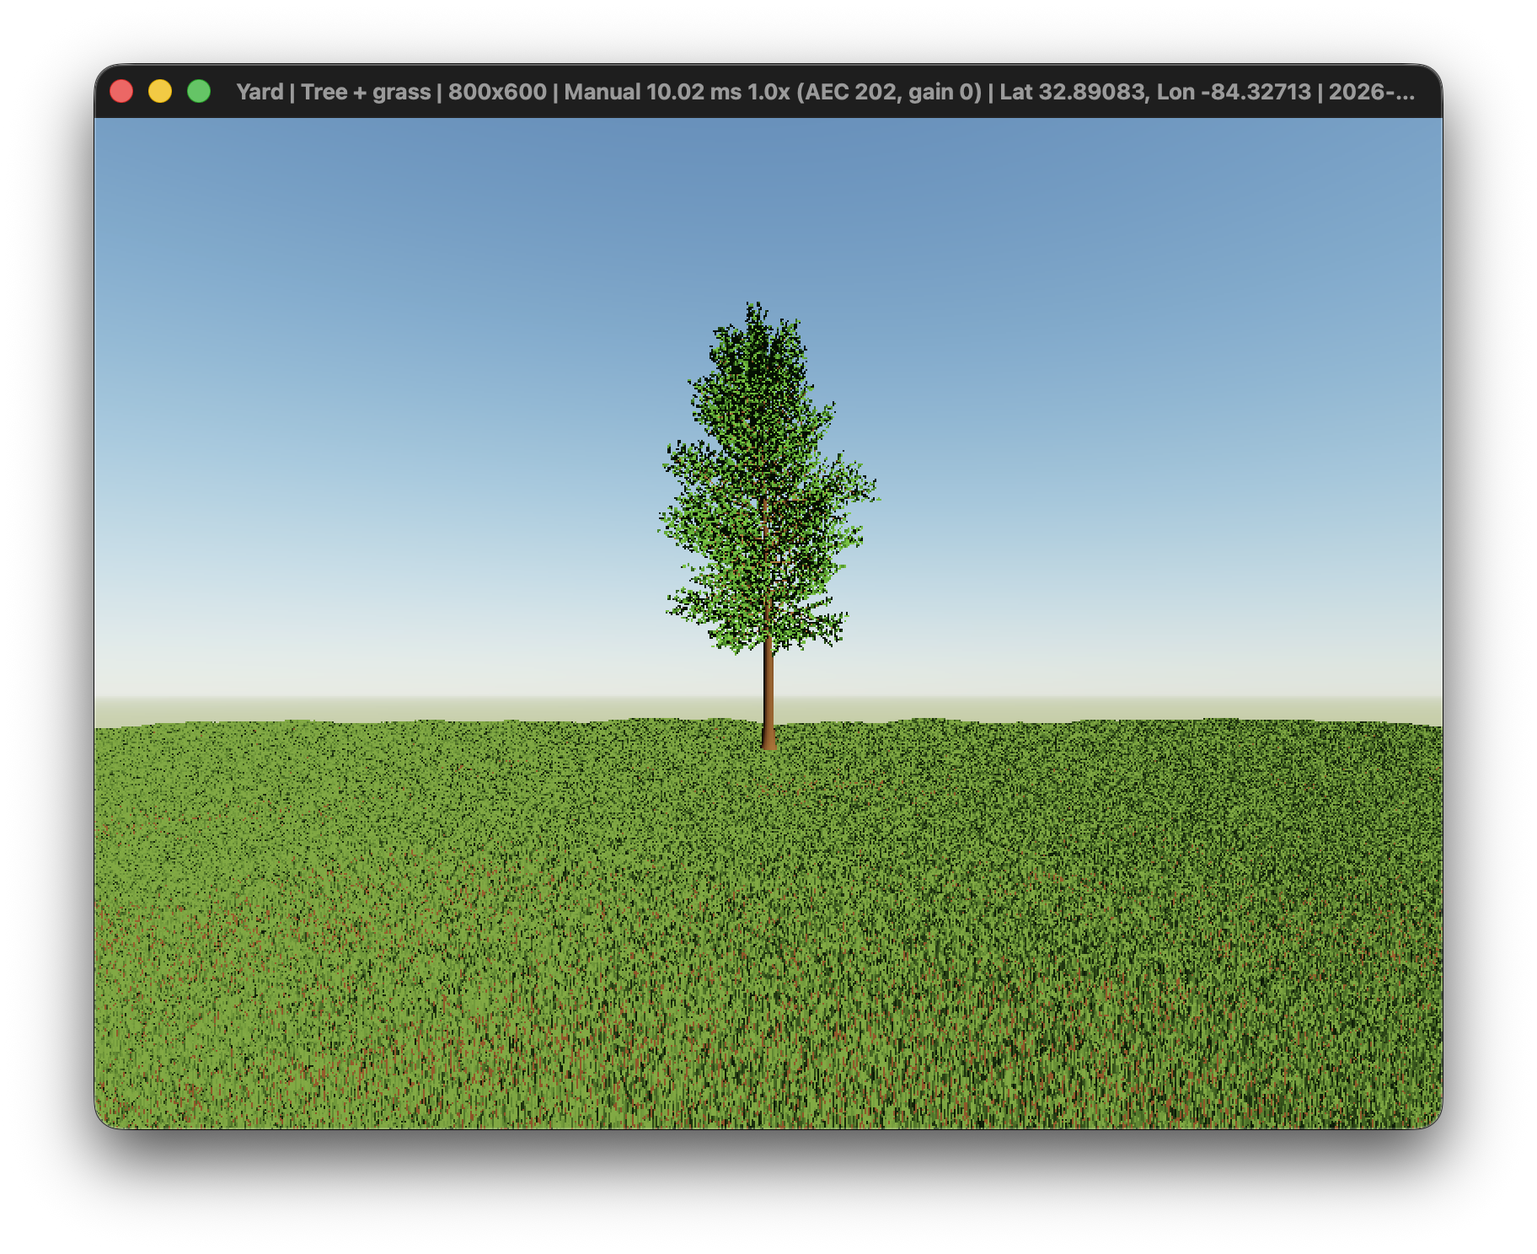
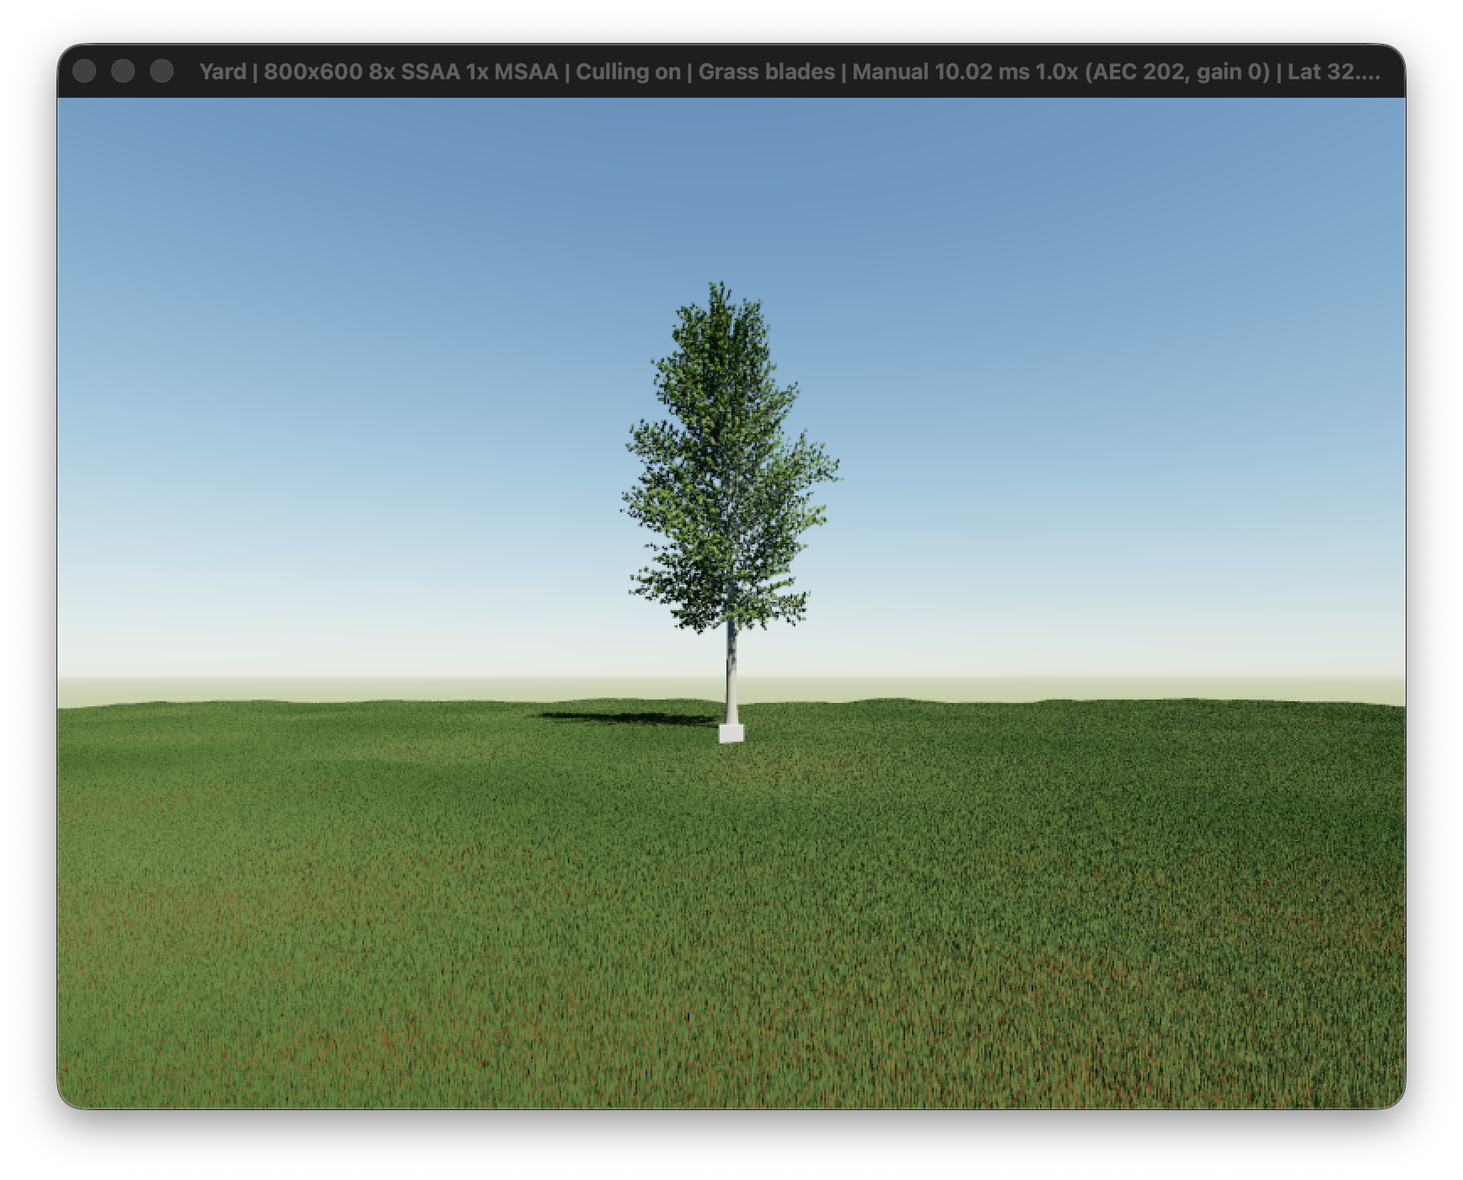
Refine yard materials and add foliage transmission and sun shadows

diff --git a/src/main.cpp b/src/main.cpp
@@ -47,6 +47,11 @@ static struct {
     bool geometry_demo, yard_demo;
     int object_index_count;
     sg_pipeline object_pipeline;
+    sg_pipeline shadow_pipeline;
+    sg_attachments shadow_attachments;
+    sg_bindings shadow_bindings;
+    float shadow_extent;
+    bool no_shadows;
     sg_bindings object_bindings;
     sg_pipeline grass_pipeline;
     sg_bindings grass_bindings;
@@ -95,15 +100,17 @@ static void sunlight(const double direction[3], float color[4], double intensity
 
 static void make_objects() {
     using namespace yard::geometry;
-    struct RenderVertex { Vertex geometry; Vec3 color; };
+    struct RenderVertex { Vertex geometry; std::array<float,4> color; };
     std::vector<RenderVertex> vertices;
     std::vector<uint32_t> indices;
-    auto append = [&](Mesh mesh, Vec3 color, Vec3 offset, bool checker=false) {
+    auto append = [&](Mesh mesh, Vec3 color, Vec3 offset, bool checker=false, bool foliage=false) {
         auto base = static_cast<uint32_t>(vertices.size());
         for (auto vertex : mesh.vertices) {
             vertex.position.x += offset.x; vertex.position.y += offset.y; vertex.position.z += offset.z;
             if (!checker) vertex.uv = {0,0};
-            vertices.push_back({vertex,color});
+            vertices.push_back({vertex,{color.x,color.y,color.z,foliage ? 1.0f : 0.0f}});
+            const auto& p=vertex.position;
+            state.shadow_extent=fmaxf(state.shadow_extent,sqrtf(p.x*p.x+(p.y-10)*(p.y-10)+(p.z+6)*(p.z+6))+2);
         }
         for (auto i : mesh.indices) indices.push_back(base+i);
     };
@@ -126,9 +133,10 @@ static void make_objects() {
         auto skeleton=yard::tree::generate(yard::tree::preset(state.tree_species ? state.tree_species : "fan_palm"),123);
         auto tree=yard::tree::mesh(skeleton);
         Vec3 root{0,yard_terrain_height(&state.terrain,0,-6)-.02f,-6};
-        append(std::move(tree.wood),{.40f,.27f,.16f},root);
-        append(std::move(tree.leaves),{.23f,.46f,.13f},root);
-        append(std::move(tree.blossoms),{.95f,.65f,.75f},root);
+        const bool aspen=state.tree_species && strcmp(state.tree_species,"quaking_aspen")==0;
+        append(std::move(tree.wood),aspen ? Vec3{.62f,.63f,.57f} : Vec3{.36f,.30f,.23f},root);
+        append(std::move(tree.leaves),{.30f,.40f,.20f},root,false,true);
+        append(std::move(tree.blossoms),{.85f,.62f,.68f},root,false,true);
     }
     state.object_index_count=static_cast<int>(indices.size());
     sg_buffer_desc buffer{};
@@ -144,7 +152,7 @@ static void make_objects() {
     pipeline.layout.attrs[ATTR_object_position].offset=offsetof(RenderVertex,geometry)+offsetof(Vertex,position);
     pipeline.layout.attrs[ATTR_object_normal].format=SG_VERTEXFORMAT_FLOAT3;
     pipeline.layout.attrs[ATTR_object_normal].offset=offsetof(RenderVertex,geometry)+offsetof(Vertex,normal);
-    pipeline.layout.attrs[ATTR_object_color].format=SG_VERTEXFORMAT_FLOAT3;
+    pipeline.layout.attrs[ATTR_object_color].format=SG_VERTEXFORMAT_FLOAT4;
     pipeline.layout.attrs[ATTR_object_color].offset=offsetof(RenderVertex,color);
     pipeline.layout.attrs[ATTR_object_uv].format=SG_VERTEXFORMAT_FLOAT2;
     pipeline.layout.attrs[ATTR_object_uv].offset=offsetof(RenderVertex,geometry)+offsetof(Vertex,uv);
@@ -155,10 +163,70 @@ static void make_objects() {
     pipeline.colors[0].pixel_format=SG_PIXELFORMAT_RGBA16F;pipeline.sample_count=state.msaa;
     pipeline.label="opaque scene objects";
     state.object_pipeline=sg_make_pipeline(pipeline);
+    sg_pipeline_desc shadow{};
+    shadow.shader=sg_make_shader(shadow_shader_desc(sg_query_backend()));
+    shadow.layout.buffers[0].stride=sizeof(RenderVertex);
+    shadow.layout.attrs[ATTR_shadow_position].format=SG_VERTEXFORMAT_FLOAT3;
+    shadow.layout.attrs[ATTR_shadow_position].offset=offsetof(RenderVertex,geometry)+offsetof(Vertex,position);
+    shadow.index_type=SG_INDEXTYPE_UINT32;
+    shadow.cull_mode=SG_CULLMODE_NONE; // Leaves cast from both sides.
+    shadow.depth.pixel_format=SG_PIXELFORMAT_DEPTH;
+    shadow.depth.write_enabled=true;shadow.depth.compare=SG_COMPAREFUNC_LESS_EQUAL;
+    shadow.colors[0].pixel_format=SG_PIXELFORMAT_R32F;shadow.sample_count=1;
+    shadow.label="sun shadow casters";
+    state.shadow_pipeline=sg_make_pipeline(shadow);
+    state.shadow_bindings=state.object_bindings;
     if(sg_query_pipeline_state(state.object_pipeline)!=SG_RESOURCESTATE_VALID ||
        sg_query_buffer_state(state.object_bindings.vertex_buffers[0])!=SG_RESOURCESTATE_VALID ||
        sg_query_buffer_state(state.object_bindings.index_buffer)!=SG_RESOURCESTATE_VALID)
         throw std::runtime_error("Cannot upload scene objects");
+}
+
+static void make_shadows() {
+    constexpr int resolution=4096;
+    state.shadow_extent=fmaxf(52.0f,state.shadow_extent);
+    sg_image_desc desc{};
+    desc.width=resolution;desc.height=resolution;desc.sample_count=1;
+    desc.pixel_format=SG_PIXELFORMAT_R32F;desc.usage.color_attachment=true;
+    desc.label="sun shadow depth values";
+    sg_image color=sg_make_image(desc);
+    desc.usage={};desc.usage.depth_stencil_attachment=true;
+    desc.pixel_format=SG_PIXELFORMAT_DEPTH;desc.label="sun shadow depth test";
+    sg_image depth=sg_make_image(desc);
+    sg_view_desc view{};view.color_attachment.image=color;
+    state.shadow_attachments.colors[0]=sg_make_view(view);
+    view={};view.depth_stencil_attachment.image=depth;
+    state.shadow_attachments.depth_stencil=sg_make_view(view);
+    view={};view.texture.image=color;
+    sg_view texture=sg_make_view(view);
+    sg_sampler_desc sampler_desc{};
+    sampler_desc.wrap_u=SG_WRAP_CLAMP_TO_EDGE;sampler_desc.wrap_v=SG_WRAP_CLAMP_TO_EDGE;
+    sg_sampler sampler=sg_make_sampler(sampler_desc);
+    for(sg_bindings* bindings : {&state.bindings,&state.object_bindings,&state.grass_bindings,&state.volume_bindings}) {
+        bindings->views[VIEW_shadow_image]=texture;
+        bindings->samplers[SMP_shadow_sampler]=sampler;
+    }
+    if(sg_query_image_state(color)!=SG_RESOURCESTATE_VALID ||
+       sg_query_image_state(depth)!=SG_RESOURCESTATE_VALID ||
+       sg_query_pipeline_state(state.shadow_pipeline)!=SG_RESOURCESTATE_VALID)
+        throw std::runtime_error("Cannot create sun shadow map");
+    printf("Yard: %dx%d sun shadows, %.1f m half extent, two-sided object casters\n",resolution,resolution,state.shadow_extent);
+}
+
+static shadow_params_t shadow_projection(const float* sun) {
+    // Orthonormal light axes; fixed center/extent, independent of viewer/culling.
+    const float length=hypotf(sun[0],sun[2]);
+    shadow_params_t p{};
+    if(length>0.0001f) {p.shadow_right[0]=-sun[2]/length;p.shadow_right[2]=sun[0]/length;}
+    else p.shadow_right[0]=1;
+    for(int i=0;i<3;++i) p.shadow_forward[i]=-sun[i];
+    const float* f=p.shadow_forward; const float* r=p.shadow_right;
+    p.shadow_up[0]=f[1]*r[2]-f[2]*r[1];
+    p.shadow_up[1]=f[2]*r[0]-f[0]*r[2];
+    p.shadow_up[2]=f[0]*r[1]-f[1]*r[0];
+    p.shadow_right[3]=state.no_shadows ? 0.0f : 1.0f;
+    p.shadow_origin[1]=10;p.shadow_origin[2]=-6;p.shadow_origin[3]=1.0f/state.shadow_extent;
+    return p;
 }
 
 static void make_grass_volume(void) {
@@ -423,6 +491,7 @@ static void init(void) {
     grass_pipeline.layout.attrs[ATTR_grass_root_height].buffer_index = 1;
     grass_pipeline.layout.attrs[ATTR_grass_root_height].format = SG_VERTEXFORMAT_FLOAT;
     grass_pipeline.cull_mode = SG_CULLMODE_NONE;
+    grass_pipeline.face_winding = SG_FACEWINDING_CCW;
     grass_pipeline.depth.pixel_format = SG_PIXELFORMAT_DEPTH;
     grass_pipeline.depth.write_enabled = true;
     grass_pipeline.depth.compare = SG_COMPAREFUNC_LESS_EQUAL;
@@ -457,6 +526,8 @@ static void init(void) {
     terrain_pipeline.sample_count = state.msaa;
     terrain_pipeline.label = "voxel terrain pipeline";
     state.pipeline = sg_make_pipeline(terrain_pipeline);
+    try { make_shadows(); }
+    catch(const std::exception& e) {fprintf(stderr,"Shadow initialization failed: %s\n",e.what());exit(EXIT_FAILURE);}
 }
 
 static void frame(void) {
@@ -545,6 +616,22 @@ static void frame(void) {
             sky.moon_north[i] = (float)state.ephemeris.celestial_north[i];
         }
         sky.sky_moon[3] = (float)state.ephemeris.moon_radius;
+        const shadow_params_t shadow=shadow_projection(light.sun_direction);
+        sg_pass shadow_pass{};
+        shadow_pass.attachments=state.shadow_attachments;
+        shadow_pass.action.colors[0].load_action=SG_LOADACTION_CLEAR;
+        shadow_pass.action.colors[0].clear_value={1,1,1,1};
+        sg_begin_pass(shadow_pass);
+        if(!state.no_shadows && light.sun_direction[1]>0) {
+            sg_apply_pipeline(state.shadow_pipeline);
+            sg_apply_bindings(&state.shadow_bindings);
+            caster_params_t caster{};
+            static_assert(sizeof(caster)==sizeof(shadow));
+            memcpy(&caster,&shadow,sizeof(caster));
+            sg_apply_uniforms(UB_caster_params,SG_RANGE(caster));
+            sg_draw(0,state.object_index_count,1);
+        }
+        sg_end_pass();
         sg_pass camera_pass{};
         camera_pass.action.colors[0].load_action = SG_LOADACTION_CLEAR;
         camera_pass.action.colors[0].clear_value.r = .055f;
@@ -561,6 +648,7 @@ static void frame(void) {
         sg_apply_bindings(&state.bindings);
         sg_apply_uniforms(UB_vs_params, SG_RANGE(uniforms));
         sg_apply_uniforms(UB_light_params, SG_RANGE(light));
+        sg_apply_uniforms(UB_shadow_params,SG_RANGE(shadow));
         yard_frustum frustum;
         yard_frustum_make(&frustum,state.position,state.yaw,state.pitch,
                           uniforms.view[2],uniforms.lens[0]);
@@ -578,11 +666,13 @@ static void frame(void) {
         sg_apply_bindings(&state.object_bindings);
         sg_apply_uniforms(UB_vs_params,SG_RANGE(uniforms));
         sg_apply_uniforms(UB_light_params,SG_RANGE(light));
+        sg_apply_uniforms(UB_shadow_params,SG_RANGE(shadow));
         sg_draw(0,state.object_index_count,1);
         if (state.grass_count > 0 && !state.no_grass) {
             sg_apply_pipeline(state.grass_pipeline);
             sg_apply_uniforms(UB_vs_params, SG_RANGE(uniforms));
             sg_apply_uniforms(UB_light_params, SG_RANGE(light));
+            sg_apply_uniforms(UB_shadow_params,SG_RANGE(shadow));
             for (int i=0; i<state.layout.count; ++i) {
                 const yard_draw_region *r=&state.layout.regions[i];
                 if (!state.no_culling && !yard_frustum_visible(&frustum,&r->grass)) continue;
@@ -617,6 +707,7 @@ static void frame(void) {
             sg_apply_uniforms(UB_volume_camera_params,SG_RANGE(camera));
             sg_apply_uniforms(UB_volume_params,SG_RANGE(state.volume_params));
             sg_apply_uniforms(UB_light_params,SG_RANGE(light));
+            sg_apply_uniforms(UB_shadow_params,SG_RANGE(shadow));
             sg_draw(0,3,1);
             sg_end_pass();
             state.downsample_bindings.views[VIEW_source_image]=state.volume_texture;
@@ -695,6 +786,7 @@ static void event(const sapp_event *ev) {
         yard_camera_step_gain(&state.camera, ev->key_code == SAPP_KEYCODE_EQUAL ? 1 : -1);
         state.title_minute = INT64_MIN;
     }
+    if (ev->key_code == SAPP_KEYCODE_H) state.no_shadows=!state.no_shadows;
     if (ev->key_code == SAPP_KEYCODE_G) {
         state.no_grass=!state.no_grass;
         state.title_minute=INT64_MIN;
@@ -768,6 +860,8 @@ sapp_desc sokol_main(int argc, char *argv[]) {
     double exposure_ms = -1, gain = -1, exposure_lines = -1, gain_index = -1;
     for (int i = 1; i < argc; ++i) {
         if (strcmp(argv[i], "--smoke-test") == 0) state.smoke_test = true;
+        else if (strcmp(argv[i], "--paused") == 0) state.paused=true;
+        else if (strcmp(argv[i], "--no-shadows") == 0) state.no_shadows=true;
         else if (strcmp(argv[i], "--yard-demo") == 0) state.yard_demo=true;
         else if (strcmp(argv[i], "--yard-smoke-test") == 0) {state.yard_demo=true;state.terrain_smoke_test=true;}
         else if (strcmp(argv[i], "--terrain-smoke-test") == 0) state.terrain_smoke_test = true;
@@ -892,7 +986,7 @@ sapp_desc sokol_main(int argc, char *argv[]) {
 usage:
     fprintf(stderr, "Usage: %s [--date YYYY-MM-DD] [--time local-hour] [--moon] [--zoom] [--vfov degrees] [--eye-height metres] [--smoke-test | --terrain-smoke-test] [--site profile] [--tree species] [--geometry-demo] [--yard-demo | --yard-smoke-test]\n"
                     "Grass LOD: [--grass-volume] [--lod-start metres] [--lod-end metres] (V toggles volume, G toggles grass)\n"
-                    "Rendering: [--ssaa 1|8] [--msaa 1|4] [--no-culling] [--no-grass] [--grass-stride 1..64] (diagnostic density reduction)\n"
+                    "Rendering: [--ssaa 1|8] [--msaa 1|4] [--no-shadows] [--paused] (H toggles shadows) [--no-culling] [--no-grass] [--grass-stride 1..64] (diagnostic density reduction)\n"
                     "Camera: [--camera-profile FILE] [--exposure-ms MS | --aec-value LINES] [--gain MULTIPLIER | --agc-gain INDEX]\n"
                     "OV2640 default: manual shutter 0-33.333333 ms (AEC 0-1200, frame-capped), gain 1-31x (index 0-30).\n"
                     "Keys: comma/period = shutter -/+ 1/3 stop; minus/equal = gain -/+ one step.\n"

diff --git a/design/MATERIALS.md b/design/MATERIALS.md
@@ -1,0 +1,76 @@
+# Materials and foliage shading
+
+The preview uses a restrained material palette, a thin diffuse leaf model and
+object sun shadows. These are visual approximations, not measured reflectance or
+an OV2640 color calibration. Exposure, tone mapping, sky radiance and final camera
+resolution retain their existing behavior.
+
+## Palette
+
+Grass uses linear RGB reflectance from (0.043, 0.086, 0.026) to
+(0.069, 0.112, 0.039), blended with smooth metre-scale world-space variation.
+Blades and volume call the same function at the shading position. No per-frame
+randomness or fine procedural noise is added. Tree leaves use sRGB (0.30, 0.40,
+0.20); aspen wood uses pale gray (0.62, 0.63, 0.57), other species muted brown
+(0.36, 0.30, 0.23). Blossoms use (0.85, 0.62, 0.68). Object material inputs now
+use the piecewise sRGB decode, matching the soil's color convention. Leaf/wood
+identity is explicit vertex data, independent of palette values.
+
+## Thin foliage
+
+The visible face receives diffuse reflected light and 35% rear diffuse light,
+with a green-biased transmission tint. This allows backlit leaves to stay visible
+without lighting both sides as if directly illuminated. Leaves and blossoms use
+this model; wood, soil and the cube remain opaque diffuse materials. Grass normals
+agree with the explicit CCW triangle winding. The volume averages the same leaf
+model over 16 azimuths weighted by projected area, separating ambient and direct
+terms so only direct sunlight receives shadows at each integration sample.
+
+Transmission is a local shading term, not geometric transparency or multiple
+scattering. Leaves remain opaque in camera and shadow depth. Overlapping leaves
+can therefore make a canopy shadow too dense. There is no bark texture, waxy
+specular response, subsurface transport, ambient occlusion or indirect bounce.
+
+## Sun shadows
+
+A 4096×4096 R32F color attachment records normalized light depth, with a separate
+depth attachment for nearest-surface testing. These cost approximately 128 MiB
+combined at 32-bit depth, in addition to the supersampled scene. Shadow rendering
+and receiver filtering add GPU work; the smoke runs are functional checks, not
+isolated performance benchmarks. The existing scene object vertex/index buffers are
+reused for the caster pass. Trunks, branches, foliage, the cube and optional
+geometry examples cast and receive shadows. Terrain, blades and the grass volume
+receive shadows; terrain and grass do not cast them. No moon shadow map is added.
+
+The directional projection is centered at (0, 10, -6), with 52 m half extent or
+larger if needed to enclose the object geometry. Its basis follows the shared
+simulation sun direction, and its center/extent do not follow the camera. This
+avoids camera-driven shadow-grid movement and includes off-camera casters even
+when view-frustum culling is enabled. The shadow map is rendered once per sensor
+capture, with no caster draw when the sun is below the horizon or shadows are off.
+
+Receivers use a small normal/slope bias and a continuous 4×4 tent PCF. The finite
+resolution and bias can miss fine twigs, soften/detach contact edges, or shimmer
+as sunlight moves. This is a fixed reconstruction filter, not a physically sized
+solar penumbra. Outside the finite light volume, receivers are unshadowed. There
+is no temporal accumulation. Grass-volume integration samples the same shadow map
+and palette before exposure and supersampling resolve; volume/blade coverage and
+lighting remain approximate at their transition.
+
+## Compare
+
+```sh
+./build/yard --yard-demo --paused --date 2026-09-15 --time 12
+./build/yard --yard-demo --paused --grass-volume --date 2026-09-15 --time 12
+./build/yard --yard-demo --paused --no-shadows --date 2026-09-15 --time 12
+```
+
+H toggles sun shadows, V toggles volume LOD, G toggles grass, and Space resumes the
+clock. The normal 8× SSAA default remains enabled. Window resizing and preview
+zoom do not change sensor resolution or projection.
+
+Validation includes the warning-free macOS build, all portable shader targets,
+the CPU suite, four-phase Metal smoke check, and tree-orbit checks for blades and
+volume with 4× MSAA. Paused daytime window captures check material appearance and
+visible tree self/ground shadows. These checks do not prove temporal stability,
+physical calibration, or runtime portability to the other generated backends.

diff --git a/README.md b/README.md
@@ -158,7 +158,7 @@ full-acre moving-view check measured 17.1 captures/sec on M1 Max/32 GB, down fro
 
 A light-gray **50 cm cube** sits at the yard center, with its base embedded 8 cm
 below the center's soil height. It uses the same sunlight/exposure and opaque depth
-testing as the terrain. It is visual geometry: it has no collision or cast shadow.
+testing as the terrain. It casts a sun shadow, but has no collision.
 
 Full triangle grass remains the default. **V** toggles the experimental shallow
 volume LOD without moving the camera; the title shows `blades` or `volume LOD`.
@@ -190,7 +190,8 @@ The scene stores linear HDR RGB and forward camera depth in RGBA16F. The volume
 stops at the nearest rendered terrain, cube or blade surface, so solid objects
 block grass behind them and grass in front can partially cover their lower edges.
 Compositing precedes exposure/tone mapping. The volume has no single opaque depth
-surface and does not participate in collision, shadows, or transparent-object sorting.
+surface and does not participate in collision, shadow casting, or transparent-object sorting.
+It receives object sun shadows during integration.
 With 4× MSAA, resolved depth is averaged at mixed-coverage edges; volume occlusion
 there is approximate. Default 8× SSAA with MSAA off avoids that depth resolve.
 
@@ -204,7 +205,7 @@ variation. The height field approximates the original roots and render mesh;
 transition coverage/lighting matching is approximate. Empty-space skipping uses
 a conservative height-slope bound, followed by <=1 cm integration steps in the
 layer. Marches stop at 1,024 steps or 0.2% transmission, so unusually long grazing
-paths may under-integrate. There is no wind or grass/cube shadowing.
+paths may under-integrate. There is no wind or grass shadow casting; objects cast shadows onto the layer.
 
 The final 120-capture orbit at 40 cm eye height on M1 Max/32 GB with 8× SSAA
 measured **28.4 captures/sec for the cube + blades baseline** and **29.5 with volume
@@ -360,7 +361,11 @@ the soil and trunk contact; `--no-grass` starts with soil exposed. WASD and mous
 look work as usual, and the camera follows the surface at 1.6 m eye height.
 The tree is planted at the terrain height, with its base embedded 2 cm.
 
-This is a static preview, with no collision, growth, or tree/terrain shadows.
+This is a static preview, with no collision or growth. Trees and the cube now cast
+sun shadows onto themselves, terrain, blades and the grass volume. **H** toggles
+shadows; `--no-shadows` disables them at startup. `--paused` holds the initial
+clock for comparisons (Space resumes). See [materials and shading](design/MATERIALS.md)
+for the revised palette, thin-leaf transmission, and shadow limitations.
 The dense 1 cm × 64 cm terrain volume alone uses about 2.4 GiB, so startup takes
 several seconds. Frustum culling submits visible 2.56 m draw regions. This mode uses the same restored 8× supersampling, configurable MSAA, and
 optional grass-volume LOD as the terrain renderer. **V** toggles volume LOD and

diff --git a/design/YARD_DEMO.md b/design/YARD_DEMO.md
@@ -10,14 +10,15 @@ C toggles frustum culling. All three controls work while time is paused.
 The tree's world root is (0, terrain height − 0.02 m, −6). Wood, leaves, cube,
 soil and grass share the camera, manual exposure, sunlight, ambient lighting,
 HDR render target and depth buffer. There is no rigid-body collision, wind,
-growth or general shadow pass. Root embedding hides small extraction/interpolation
+or growth. Objects cast sun shadows; terrain and grass receive them. Root embedding hides small extraction/interpolation
 discrepancies; it does not deform terrain or remove grass under the trunk.
 The half-metre cube remains as PR #7's occlusion reference. `--geometry-demo`
 adds the curve and polygon examples to the same renderer.
 
-![Daytime aspen in the grassy terrain](yard-demo.png)
+![Daytime aspen with revised materials and sun shadows](yard-demo.png)
 
-Earlier scene preview; this image predates the restored supersampling.
+Paused at 2026-09-15 12:00 local time, with 8× SSAA and blade grass.
+See [materials and shading](MATERIALS.md) for the palette and shadow model.
 
 ## Restored renderer from PR #7
 

diff --git a/design/TREES.md b/design/TREES.md
@@ -21,8 +21,10 @@ The demo uses seed 123 and places one full-sized tree at the terrain surface bey
 the half-metre reference cube. The
 camera remains fixed at SVGA, with the existing projection and manual exposure.
 Foliage renders from both sides, with the facing normal used for lighting.
-Tree shadows, textures, translucency, wind and automatic scene framing are not
-implemented. There is currently no scene shadow pass in the terrain renderer.
+Foliage adds diffuse rear transmission, and tree geometry casts and receives sun
+shadows. Aspen bark has a pale gray palette; other presets retain muted brown bark.
+Textures, wind and automatic species framing are not implemented. See
+[materials and shading](MATERIALS.md) for the approximation limits.
 Smoke mode includes a fan palm; it verifies execution, not visual appearance.
 
 The shared renderer defaults to 8× spatial supersampling and supports optional
